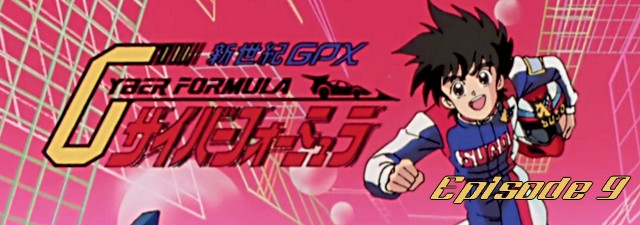
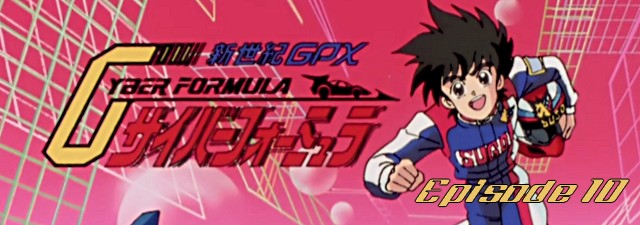
new release

Changed region(s): [[0.625, 0.7778, 1.0, 0.9333]]

diff --git a/2015-06-20.html b/2015-06-20.html
@@ -1,7 +1,7 @@
 <!DOCTYPE html>
 <html lang="fr-FR">
 	<head>
-		<title>Pack Future GPX Cyber Formula BD 08-09 vostfr | Nobluesky Fansub</title>
+		<title>Future GPX Cyber Formula BD 10 vostfr | Nobluesky Fansub</title>
 		<meta charset="utf-8" />
 		<link rel="Shortcut Icon" type="image/x-icon" href="favicon.ico" />
 		<link href="fonts/fonts.css" rel="stylesheet" type="text/css" />
@@ -36,26 +36,19 @@
 	<div id="article">
 		<div id="content">
 			<div class="post">
-				<h1 class="title">Pack Future GPX Cyber Formula BD 08-09 vostfr</h1>
-				<p class="meta"><span class="date">13 Juin 2015</span><span class="posted">Posté par <a href="about.html#nobluesky">Nobluesky</a></span></p>
+				<h1 class="title">Future GPX Cyber Formula BD 10 vostfr</h1>
+				<p class="meta"><span class="date">20 Juin 2015</span><span class="posted">Posté par <a href="about.html#nobluesky">Nobluesky</a></span></p>
 				<div style="clear: both;">&nbsp;</div>
 				<div class="entry">
-					<img class="post-images" src="images/2015/news10.jpg" alt="" />
-					<p>Konbanwa!</p>
-					<p>On se retrouve pour le pack, chose promise chose due. Faut bien faire voguer le bateau, tempête ou pas!</p>
-					<p>J'en profite pour souhaiter bon courage à ceux qui passent leurs exams, c'est la saison et c'est pas facile.</p>
-					<p>Et bonne nouvelle, vous avez maintenant un petit espoir de voir un jour l'épisode 10 en vostfr ^_^'</p>
-					<p>A la revoyure pour de nouvelles aventures!</p>
+					<img class="post-images" src="images/2015/news11.jpg" alt="" />
+					<p>Salut à tous!</p>
+					<p>Par cette magnifique journée, avec les grillons qui chantent pendant que j'écris ces lignes, je vous apporte enfin le tant attendu épisode 10, six mois après le 9, à l'aide d'une connexion internet plutôt rurale (si vous voyez ce que je veux dire^^).</p>
+					<p>Bon épisode, et si vous appréciez le travail ou avez des remarques à formuler, n'hésitez pas à laisser un commentaire, ça fait plaisir (et c'est possible sans compte, après avoir rempli votre message ;) ).</p>
+					<p>A bientôt!</p>
 					<h3>Téléchargements et streaming</h3>
-					Episode 8 : 
-					<p class="links dl"><a href="http://jheberg.net/captcha/fgpxcf-08-vostfr-bd/" class="button-dl">Jheberg</a></p>&nbsp; | &nbsp;
-					<p class="links dl"><a href="http://rutube.ru/video/68ca5b390552cb6a64bce218899130a1" class="button-dl">Rutube</a></p>&nbsp; | &nbsp;
-					<p class="links dl"><a href="https://mega.co.nz/#!DcsAXKiI!NZ8_g_zAQHXuEUkR8Z4CKzQ4p8peR_PIux9OOcZQ0aA" class="button-dl">Mega</a></p>
-					<br>
-					Episode 9 : 
-					<p class="links dl"><a href="http://www.jheberg.net/captcha/fgpxcf-09-vostfr-bd/" class="button-dl">Jheberg</a></p>&nbsp; | &nbsp;
-					<p class="links dl"><a href="http://rutube.ru/video/78b54f2ab4f0339b9c90b10d9685baa5/" class="button-dl">Rutube</a></p>&nbsp; | &nbsp;
-					<p class="links dl"><a href="https://mega.co.nz/#!zFVmHQxD!OuCcyZE4C8XoYO0Ezf41x5SVGY38mZ3n1Z2lBG5oOw0" class="button-dl">Mega</a></p>
+					<p class="links dl"><a href="http://jheberg.net/captcha/fgpxcf-10-vostfr-bd/" class="button-dl">Jheberg</a></p>&nbsp; | &nbsp;
+					<p class="links dl"><a href="" class="button-dl">Rutube (upload en cours)</a></p>&nbsp; | &nbsp;
+					<p class="links dl"><a href="https://mega.co.nz/#!fVFWzDxS!PUBKLsHwmglpCcBUJB-plMr_PLaYoQQ6nAuUlPvT-i8" class="button-dl">Mega</a></p>
 					<h3>Commentaires</h3>
 					<div id="disqus_thread"></div>
 					<script type="text/javascript">

diff --git a/page2.html b/page2.html
@@ -31,7 +31,7 @@
 	<div class="slider-wrapper theme-default">
 		<div class="ribbon"></div>
 		<div id="slider" class="nivoSlider">
-			<a href="2015-01-09.html"><img src="images/img01.jpg" alt="" /></a>
+			<a href="2015-06-20.html"><img src="images/img01.jpg" alt="" /></a>
 		</div>
 	</div>
 <script type="text/javascript">
@@ -50,6 +50,20 @@
 </div>
 	<div id="feed">
 		<div id="content">
+			<div class="post">
+				<h1 class="title"><a href="2015-02-04.html">Yoru no Yatterman licencié!</a></h1>
+				<p class="meta"><span class="date">4 Février 2015</span><span class="posted">Posté par <a href="about.html#nobluesky">Nobluesky</a></span></p>
+				<p><a href="http://nobluesub.com/2015-02-04.html#disqus_thread">Commentaires</a></p>
+				<div style="clear: both;">&nbsp;</div>
+				<div class="entry">
+					<img class="post-images" src="images/2015/news6.jpg" alt="" />
+					<p>Salut à tous,</p>
+					<p>J'ai le regret de vous annoncer que Yoru no Yatterman est maintenant licencié par Viewster (on dirait une notice nécrologique xD ). C'était prévisible aussi, une bonne série comme ça ne pouvait passer inaperçue!</p>
+					<p>Les liens de l'animé seront donc retirés du site d'ici la fin de la soirée, mais ne l'abandonnez pas pour autant, ce serait dommage ;)</p>
+					<p>Je vais considérer...</p>
+					<p class="links"><a href="2015-02-04.html" class="button">Lire la suite</a></p>
+				</div>
+			</div>
 			<div class="post">
 				<h1 class="title"><a href="2015-01-25.html">Yoru no Yatterman 02 vostfr</a></h1>
 				<p class="meta"><span class="date">25 Janvier 2015</span><span class="posted">Posté par <a href="about.html#nobluesky">Nobluesky</a></span></p>
@@ -105,20 +119,6 @@
 					<p>Allez aujourd'hui comme je manque de temps pour la news, je vous laisse découvrir le reste ;)</p>
 					<p>Et n'hésitez pas à faire des remarques dans les commentaires si vous avez des suggestions ou une correction à apporter, c'est toujours utile pour s'améliorer.</p>
 					<p class="links"><a href="2015-01-09.html" class="button">Lire la suite</a></p>
-				</div>
-			</div>
-			<div class="post">
-				<h1 class="title"><a href="2015-01-04.html">Future GPX Cyber Formula 08 vostfr</a></h1>
-				<p class="meta"><span class="date">4 Janvier 2015</span><span class="posted">Posté par <a href="about.html#nobluesky">Nobluesky</a></span></p>
-				<p><a href="http://nobluesub.com/2015-01-04.html#disqus_thread">Commentaires</a></p>
-				<div style="clear: both;">&nbsp;</div>
-				<div class="entry">
-					<img class="post-images" src="images/2015/news1.jpg" alt="" />
-					<p>Salut tout le monde!</p>
-					<p>Après avoir bien mangé pendant les fêtes (du moins j'espère pour vous que c'était pas des marrons bien lourds!), quoi de mieux que de rester regarder des animés au fond du canapé?</p>
-					<p>Voici un nouvel épisode de votre série préférée, le premier en cette année 2015.</p>
-					<p>Nous arrivons au dénouement de la finale du Grand Prix du Japon. Hayato a fort à faire avec les éléments et les autres pilotes....</p>
-					<p class="links"><a href="2015-01-04.html" class="button">Lire la suite</a></p>
 				</div>
 			</div>
 			<div style="clear: both;">&nbsp;</div>

diff --git a/index.html b/index.html
@@ -35,7 +35,7 @@
 	<div class="slider-wrapper theme-default">
 		<div class="ribbon"></div>
 		<div id="slider" class="nivoSlider">
-			<a href="2015-01-09.html"><img src="images/img01.jpg" alt="" /></a>
+			<a href="2015-06-20.html"><img src="images/img01.jpg" alt="" /></a>
 		</div>
 	</div>
 <script type="text/javascript">
@@ -60,6 +60,18 @@
 				<div style="clear: both;">&nbsp;</div>
 				<div class="entry">
 					<p>Bienvenue sur le site de la Nobluesky Fansub!</p>
+				</div>
+			</div>
+			<div class="post">
+				<h1 class="title"><a href="2015-06-20.html">Future GPX Cyber Formula BD 10 vostfr</a></h1>
+				<p class="meta"><span class="date">20 Juin 2015</span><span class="posted">Posté par <a href="about.html#nobluesky">Nobluesky</a></span></p>
+				<p><a href="http://nobluesub.com/2015-06-20.html#disqus_thread">Commentaires</a></p>
+				<div style="clear: both;">&nbsp;</div>
+				<div class="entry">
+					<img class="post-images" src="images/2015/news11.jpg" alt="" />
+					<p>Salut à tous!</p>
+					<p>Par cette magnifique journée, avec les grillons qui chantent pendant que j'écris ces lignes, je vous apporte enfin le tant attendu épisode 10, six mois après le 9, à l'aide d'une connexion...</p>
+					<p class="links"><a href="2015-06-20.html" class="button">Lire la suite</a></p>
 				</div>
 			</div>
 			<div class="post">
@@ -112,20 +124,6 @@
 					<p>S'il y a encore des gens qui me suivent avec ma rapidité légendaire ( King-du-Slowsub&copy;, classé juste avant les fansubs abandonnées xD), voici l'épisode 5 de Future GPX en bluray, a retrouver sur la <a href="future-gpx-cyber-formula.html">page de l'animé</a>.</p>
 					<p>J'ai hâte comme vous de passer le stade de l'épisode 9 pour enfin arriver au 10, mais...</p>
 					<p class="links"><a href="2015-05-19.html" class="button">Lire la suite</a></p>
-				</div>
-			</div>
-			<div class="post">
-				<h1 class="title"><a href="2015-02-04.html">Yoru no Yatterman licencié!</a></h1>
-				<p class="meta"><span class="date">4 Février 2015</span><span class="posted">Posté par <a href="about.html#nobluesky">Nobluesky</a></span></p>
-				<p><a href="http://nobluesub.com/2015-02-04.html#disqus_thread">Commentaires</a></p>
-				<div style="clear: both;">&nbsp;</div>
-				<div class="entry">
-					<img class="post-images" src="images/2015/news6.jpg" alt="" />
-					<p>Salut à tous,</p>
-					<p>J'ai le regret de vous annoncer que Yoru no Yatterman est maintenant licencié par Viewster (on dirait une notice nécrologique xD ). C'était prévisible aussi, une bonne série comme ça ne pouvait passer inaperçue!</p>
-					<p>Les liens de l'animé seront donc retirés du site d'ici la fin de la soirée, mais ne l'abandonnez pas pour autant, ce serait dommage ;)</p>
-					<p>Je vais considérer...</p>
-					<p class="links"><a href="2015-02-04.html" class="button">Lire la suite</a></p>
 				</div>
 			</div>
 			<div style="clear: both;">&nbsp;</div>

diff --git a/stream/futuregpxcf10.html b/stream/futuregpxcf10.html
@@ -1,27 +1,25 @@
 <!DOCTYPE html>
 <html lang="fr">
 <head>
-	<title>Streaming Nobluesub | Future GPX Cyber Formula</title>
+	<title>Streaming Nobluesub | Lecture en cours</title>
 	<link rel="Shortcut Icon" type="image/x-icon" href="favicon.ico" />
 	<meta charset="UTF-8" />
-	<link rel="stylesheet" href="style.css">
+	<link rel="stylesheet" href="style.css"/>
 	<script src="jquery.js" type="text/javascript"></script>
+	<script type="text/javascript" src="flowplayer/flowplayer.min.js"></script>
+	<link rel="stylesheet" href="flowplayer/skin/minimalist.css">
 </head>
 
 <body>
 <div id="feed">
 	<a title="Nobluesky stream" href="index.html"> <img id="banner" alt="Nobluesky Stream" title="Nobluesky Stream | Accueil" src="images/banner.png"/> </a>
-	<h3>Future GPX Cyber Formula</h3>
-	<p><a href="futuregpxcf01.html">Episode 1</a></p>
-	<p><a href="futuregpxcf02.html">Episode 2</a></p>
-	<p><a href="futuregpxcf03.html">Episode 3</a></p>
-	<p><a href="futuregpxcf04.html">Episode 4</a></p>
-	<p><a href="futuregpxcf05.html">Episode 5</a></p>
-	<p><a href="futuregpxcf06.html">Episode 6</a></p>
-	<p><a href="futuregpxcf07.html">Episode 7</a></p>
-	<p><a href="futuregpxcf08.html">Episode 8</a></p>
-	<p><a href="futuregpxcf09.html">Episode 9</a></p>
-	<p><a href="futuregpxcf10.html">Episode 10</a></p>
+		<p><a href="futuregpxcf.html">Retour à la liste des épisodes</a></p>
+			<video id="player" controls alt="video">
+				<source src="http://stream.nobluesub.com/share/fpcRJ5yQLihd5kMX/10.mp4
+" type="video/mp4">
+					<p>Désolé, votre navigateur est ancien et/ou ne supporte pas html5.</p>
+				</object>
+			</video>
 <p id="copy">Design par Nobluesky</p>
 </div>
 <!-- end feed -->

diff --git a/future-gpx-cyber-formula.html b/future-gpx-cyber-formula.html
@@ -92,7 +92,11 @@
 					Episode 9 : 
 					<p class="links dl"><a href="http://www.jheberg.net/captcha/fgpxcf-09-vostfr-bd/" class="button-dl">Jheberg</a></p>&nbsp; | &nbsp;
 					<p class="links dl"><a href="http://rutube.ru/video/78b54f2ab4f0339b9c90b10d9685baa5/" class="button-dl">Rutube</a></p>&nbsp; | &nbsp;
-					<p class="links dl"><a href="https://mega.co.nz/#!eZ1hiJCT!ahfmqlWu9C5SM2DVCsOYUdUUcHVNYGssVHM6bZt28xg" class="button-dl">Mega</a></p>
+					<p class="links dl"><a href="https://mega.co.nz/#!zFVmHQxD!OuCcyZE4C8XoYO0Ezf41x5SVGY38mZ3n1Z2lBG5oOw0" class="button-dl">Mega</a></p>
+					Episode 10 : 
+					<p class="links dl"><a href="http://jheberg.net/captcha/fgpxcf-10-vostfr-bd/" class="button-dl">Jheberg</a></p>&nbsp; | &nbsp;
+					<p class="links dl"><a href="" class="button-dl">Rutube (upload en cours)</a></p>&nbsp; | &nbsp;
+					<p class="links dl"><a href="https://mega.co.nz/#!fVFWzDxS!PUBKLsHwmglpCcBUJB-plMr_PLaYoQQ6nAuUlPvT-i8" class="button-dl">Mega</a></p>
 
 					<h4>Version SD (640x480) non remasterisée (abandonnée)</h4>
 					Episode 1 : 

diff --git a/archives.html b/archives.html
@@ -40,16 +40,17 @@
 				<h1 class="title"  style="text-align: center;" >Archives</h1>
 				<div style="clear: both;">&nbsp;</div>
 				<div class="entry">
-				<!-- 2015
 					<h3 style="text-align: center;" >2015</h3>
 					<input class="spoilerbutton" type="button" value="Voir" onclick="this.value=this.value=='Voir'?'Cacher':'Voir';"><div class="spoiler">
 					<div>
-					 here comes spoiler content 
+					 <!-- here comes spoiler content --> 
 					<div style="clear: both;">&nbsp;</div>
-					<p><a href="news.html" target="_blank" >Ouverture du site</a></p>
-					 end spoiler content 
+					<p><a href="2015-01-04.html" target="_blank" >Future GPX Cyber Formula 08 vostfr</a></p>
+					 <!-- end spoiler content --> 
 					</div>
-					</div> -->
+					</div>
+					
+					
 					<h3 style="text-align: center;" >2014</h3>
 					<input class="spoilerbutton" type="button" value="Voir" onclick="this.value=this.value=='Voir'?'Cacher':'Voir';"><div class="spoiler">
 					<div>

diff --git a/sidebar.html b/sidebar.html
@@ -23,9 +23,9 @@
 		<li>
 			<h2>Avancements</h2>
 			<ul>
-				<li>Future GPX Cyber Formula BD 10 : 80%
+				<li>Future GPX Cyber Formula BD 10 : 100%
 					<div class="progress-bar blue stripes">
-					<span style="width: 80%"></span>
+					<span style="width: 100%"></span>
 					</div>
 				</li>
 			</ul>
